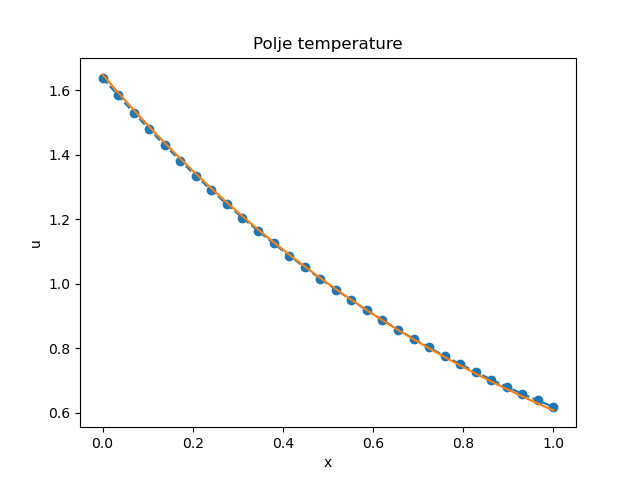
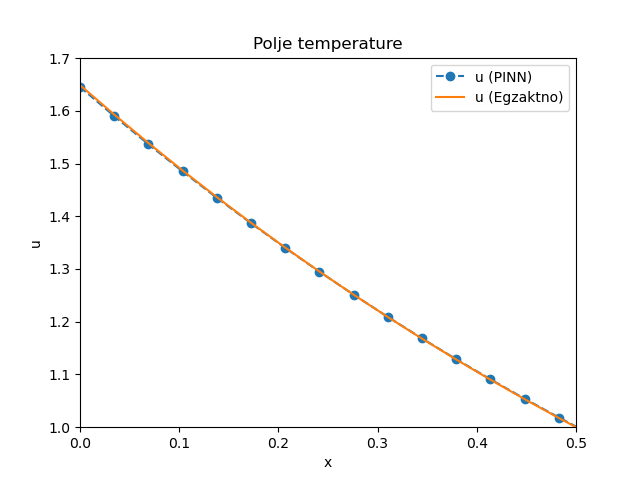
Dodati Stefan inverzni

diff --git a/primeri/toplota/sciann_stefan-inv.py b/primeri/toplota/sciann_stefan-inv.py
@@ -70,14 +70,19 @@ plt.plot(t1, s, 'o--', label='s (PINN)')
 plt.plot(t1, alpha_real * t1, '-', label='s (Egzaktno)')
 plt.xlabel("t")
 plt.ylabel("s")
+plt.legend()
 plt.title("Položaj granice između faza")
 plt.show()
 
 fig = plt.figure()
-x1 = x_test[29]
 plt.plot(x_test[29], u_pred[29], 'o--', label='u (PINN)')
+x1 = x_test[29]
 plt.plot(x1, np.exp(alpha_real*0.5-x1), '-', label='u (Egzaktno)')
 plt.xlabel("x")
 plt.ylabel("u")
+plt.xlim(left=0, right=0.5)
+plt.ylim(bottom=1)
+plt.legend()
 plt.title("Polje temperature")
 plt.show()
+
